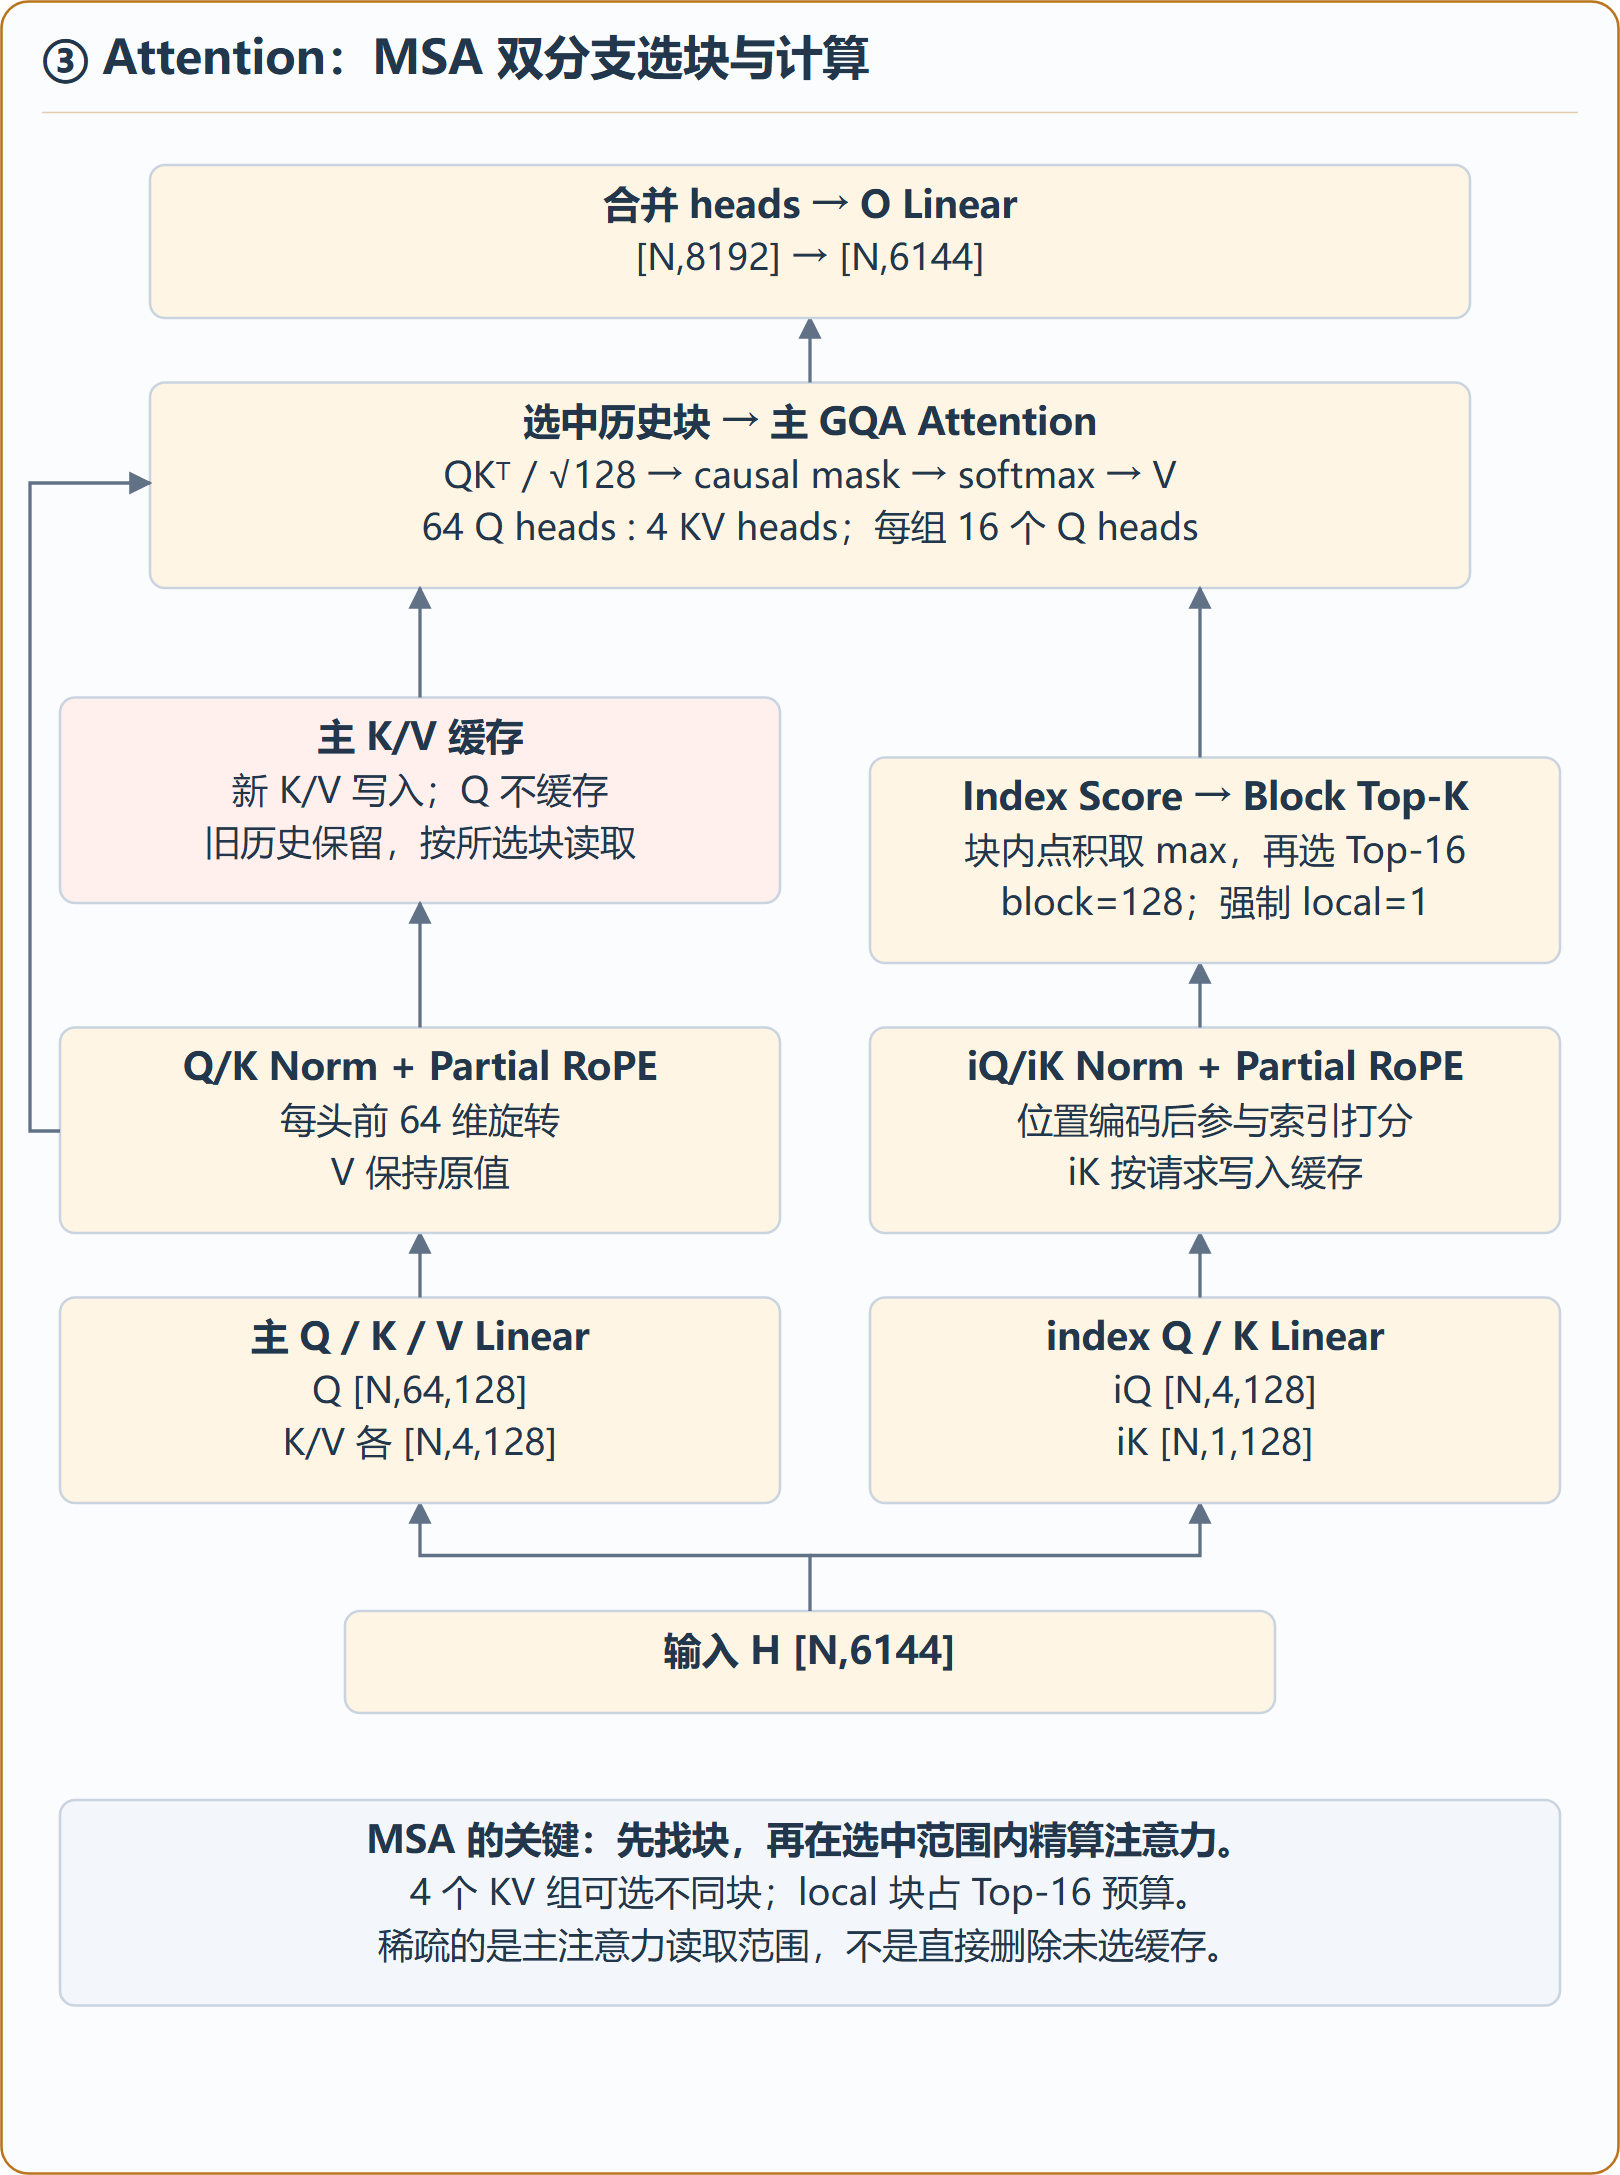
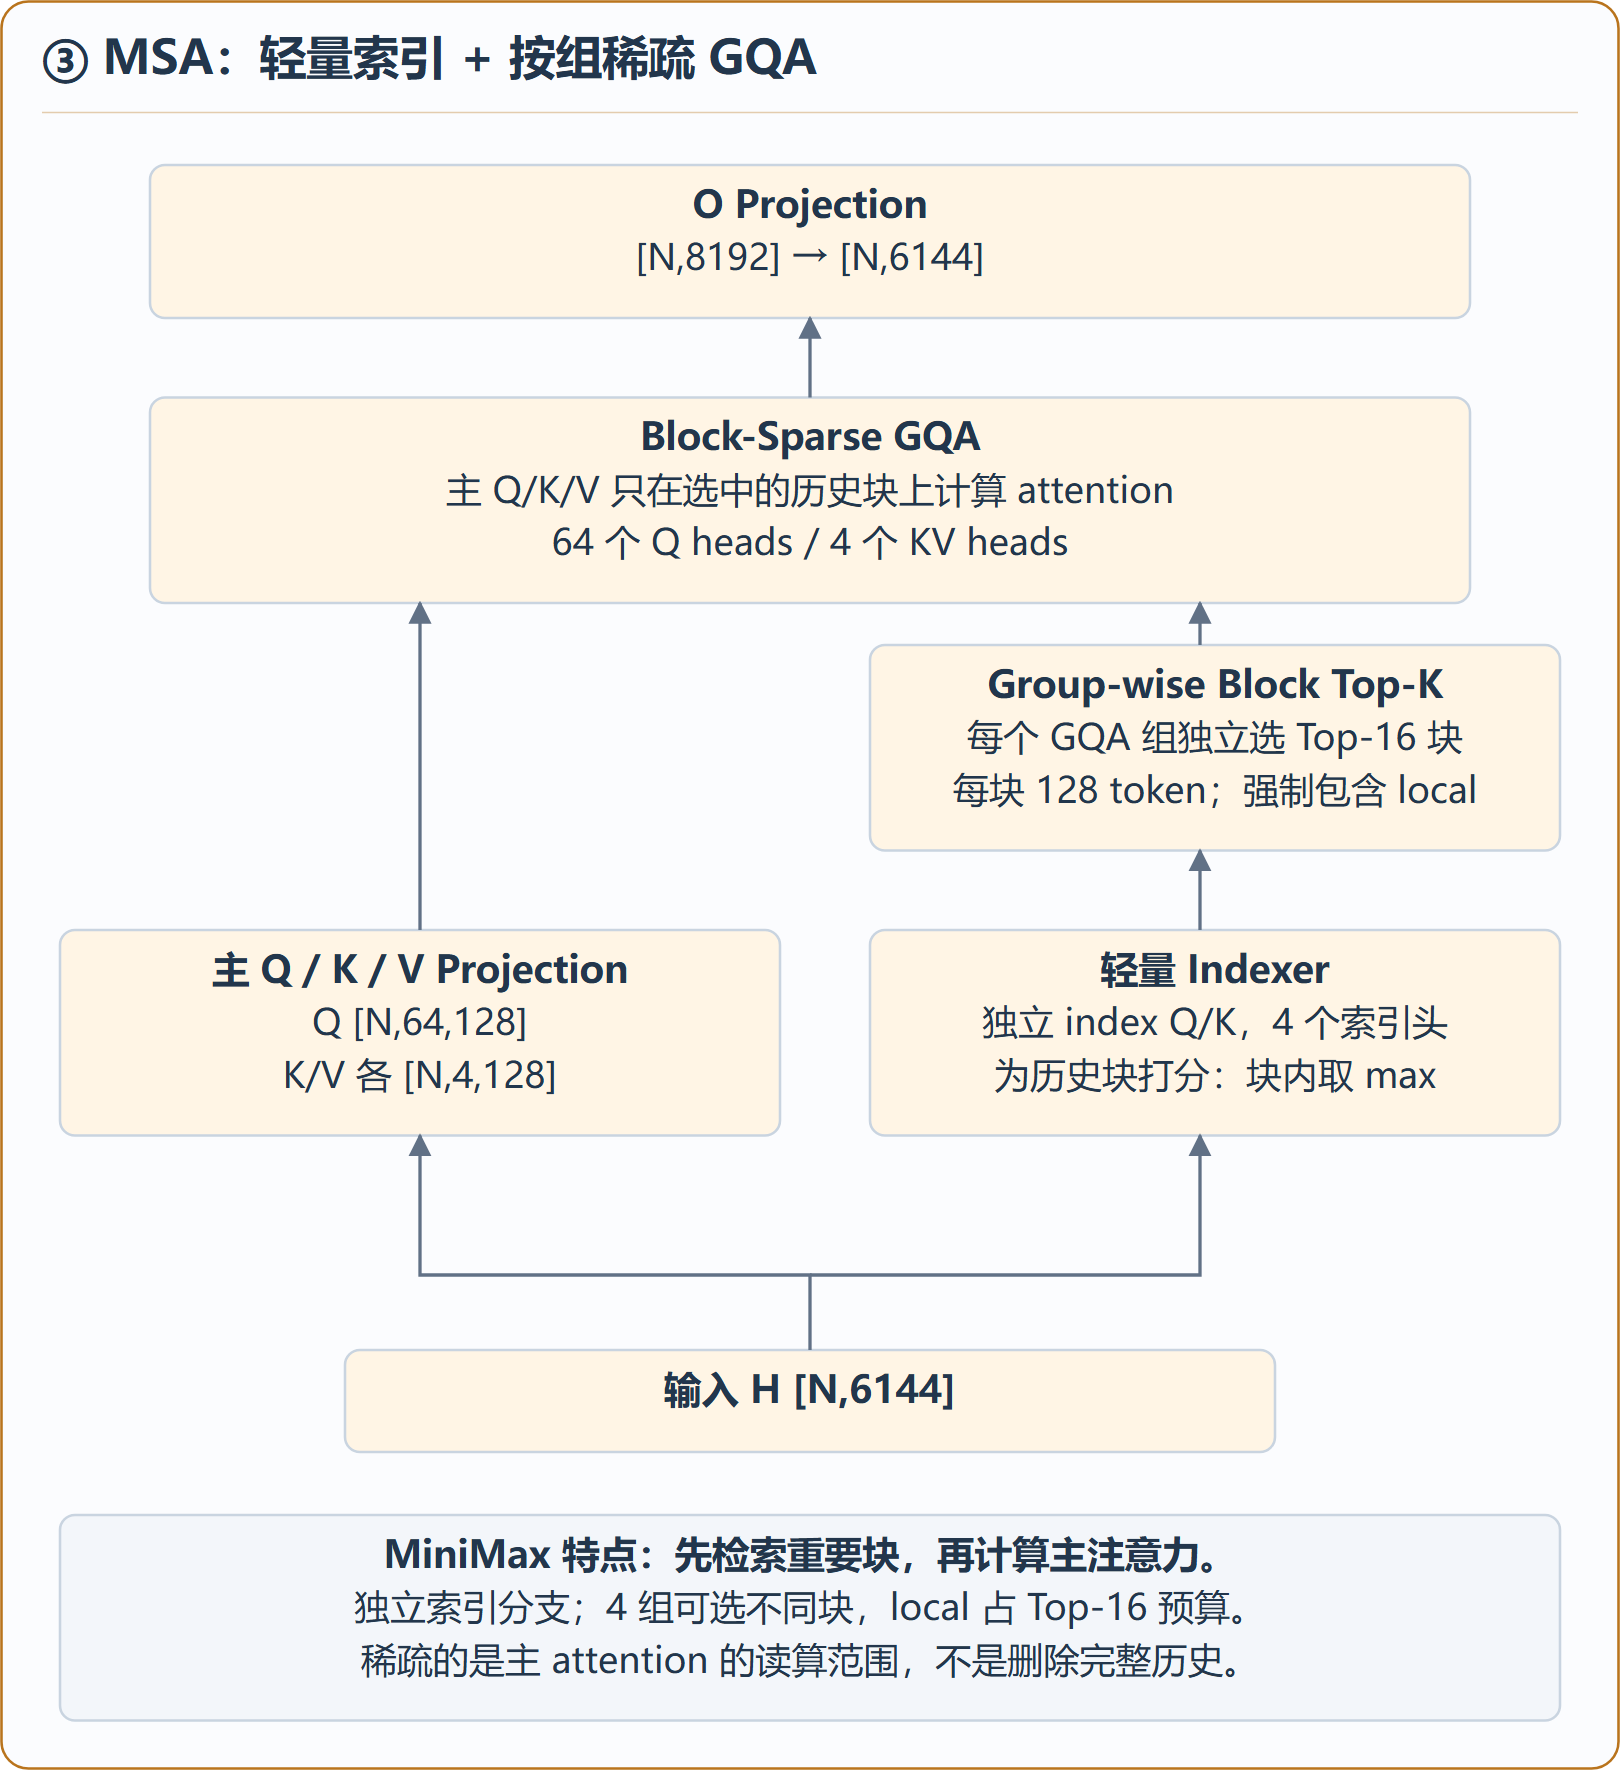
docs: simplify MSA inset and align residual paths on the left

diff --git a/minimax/minimax-m31-flash/architecture/mainline/README.md b/minimax/minimax-m31-flash/architecture/mainline/README.md
@@ -6,7 +6,7 @@
 
 左侧实线按参考图习惯**从下向上**阅读：底部输入 → 文本 Tokenizer / 视觉预处理 → Embedding / 视觉塔 → 按占位位置合并 → 前三层 → 后 57 层 → Final GemmaRMSNorm → LM Head → 采样 → 顶部文本输出。输入阶段两路在进入语言主干前合并，后续只有一条主线。右侧 Dense、MoE、MSA 小图中的纵向运算同样从下向上，视觉塔的横向小图从左向右。
 
-前 3 层和后 57 层各用一个代表层框，并标记 ×3 / ×57；框内只列 GemmaRMSNorm、Attention、Dense FFN / MoE 及两次残差。结构相同不表示各层共享权重。
+前 3 层和后 57 层各用一个代表层框，并标记 ×3 / ×57；框内只列 GemmaRMSNorm、Attention、Dense FFN / MoE 及两次残差。两次残差旁路统一画在主线左侧，右侧只用虚线引出模块说明。结构相同不表示各层共享权重。
 
 虚线与编号连接对应的小图，表示模块放大说明，不是额外执行分支：
 
@@ -15,9 +15,11 @@
 | 主线 | [PNG](main-path.png) / [SVG](main-path.svg) | 输入到输出的完整路径 |
 | ① | [视觉塔](01-vision.png) / [SVG](01-vision.svg) | Patch Embed、ViT ×32、projector、merger、返回视觉向量 |
 | ② | [GemmaRMSNorm](02-gemma-rmsnorm.png) / [SVG](02-gemma-rmsnorm.svg) | RMS 归一化、1+w 增益、归一化轴和 shape |
-| ③ | [Attention / MSA](03-attention-msa.png) / [SVG](03-attention-msa.svg) | 主 QKV、index QK、Norm/RoPE、缓存、Top-K 选块、主 attention 和输出投影 |
+| ③ | [Attention / MSA](03-attention-msa.png) / [SVG](03-attention-msa.svg) | 主 QKV、轻量 Indexer、按组 Block Top-K、Block-Sparse GQA、输出投影 |
 | ④ | [Dense FFN](04-dense-ffn.png) / [SVG](04-dense-ffn.svg) | gate/up、SwiGLU-OAI、down |
 | ⑤ | [MoE](05-moe.png) / [SVG](05-moe.svg) | router、dispatch、4 个路由专家、共享专家、combine 与结果相加 |
+
+MSA 小图只突出 MiniMax 的特殊机制：独立索引分支先为历史块打分，4 个 GQA 组分别选择 Top-16 个 128-token 块，主分支再在所选范围内计算 attention；强制 local 块占用 Top-16 预算。Norm/RoPE 和缓存读写等细节不再铺在此小图中，完整过程见[文字详解](../../model_analyze.md)与[扩展 MSA 图](../detailed/04-msa.png)。
 
 图上 shape 为未分片的逻辑维度。N 是合并后的有效语言序列长度；Nv 是 merger 前视觉 patch 数。GemmaRMSNorm 的 w 为增益参数；Dense / Expert 的 SwiGLU-OAI 使用上界截断 g′=min(g,7)、u′=clamp(u,−7,7)。完整参数 shape 与实现依据放在文字详解中。
 
